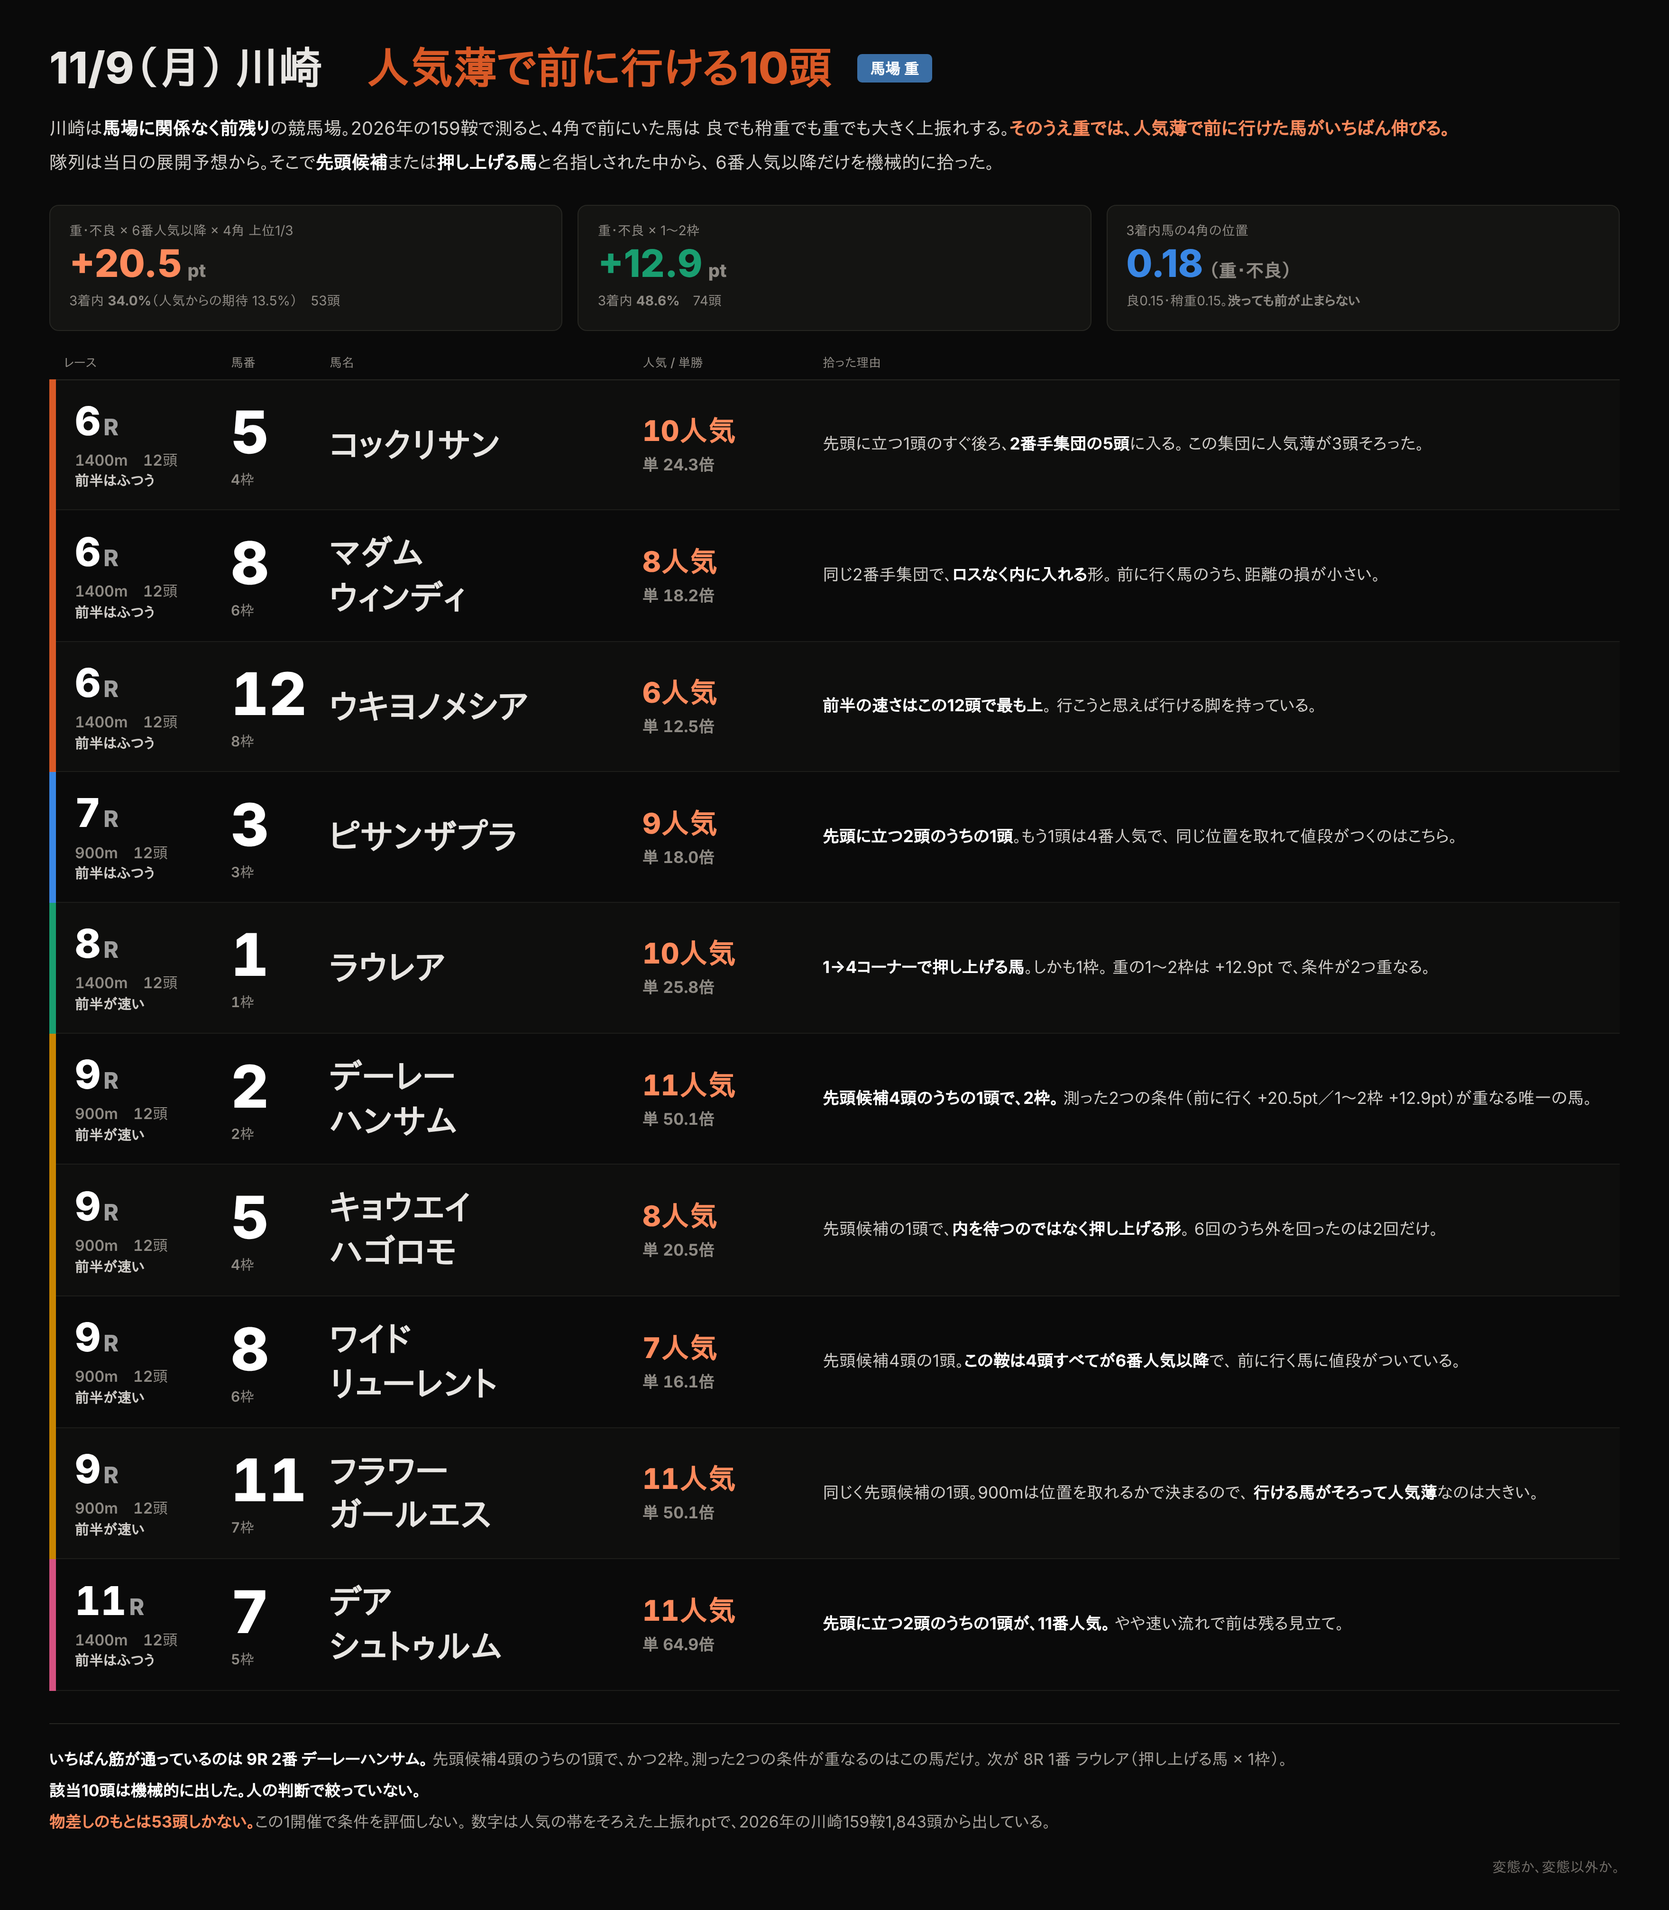
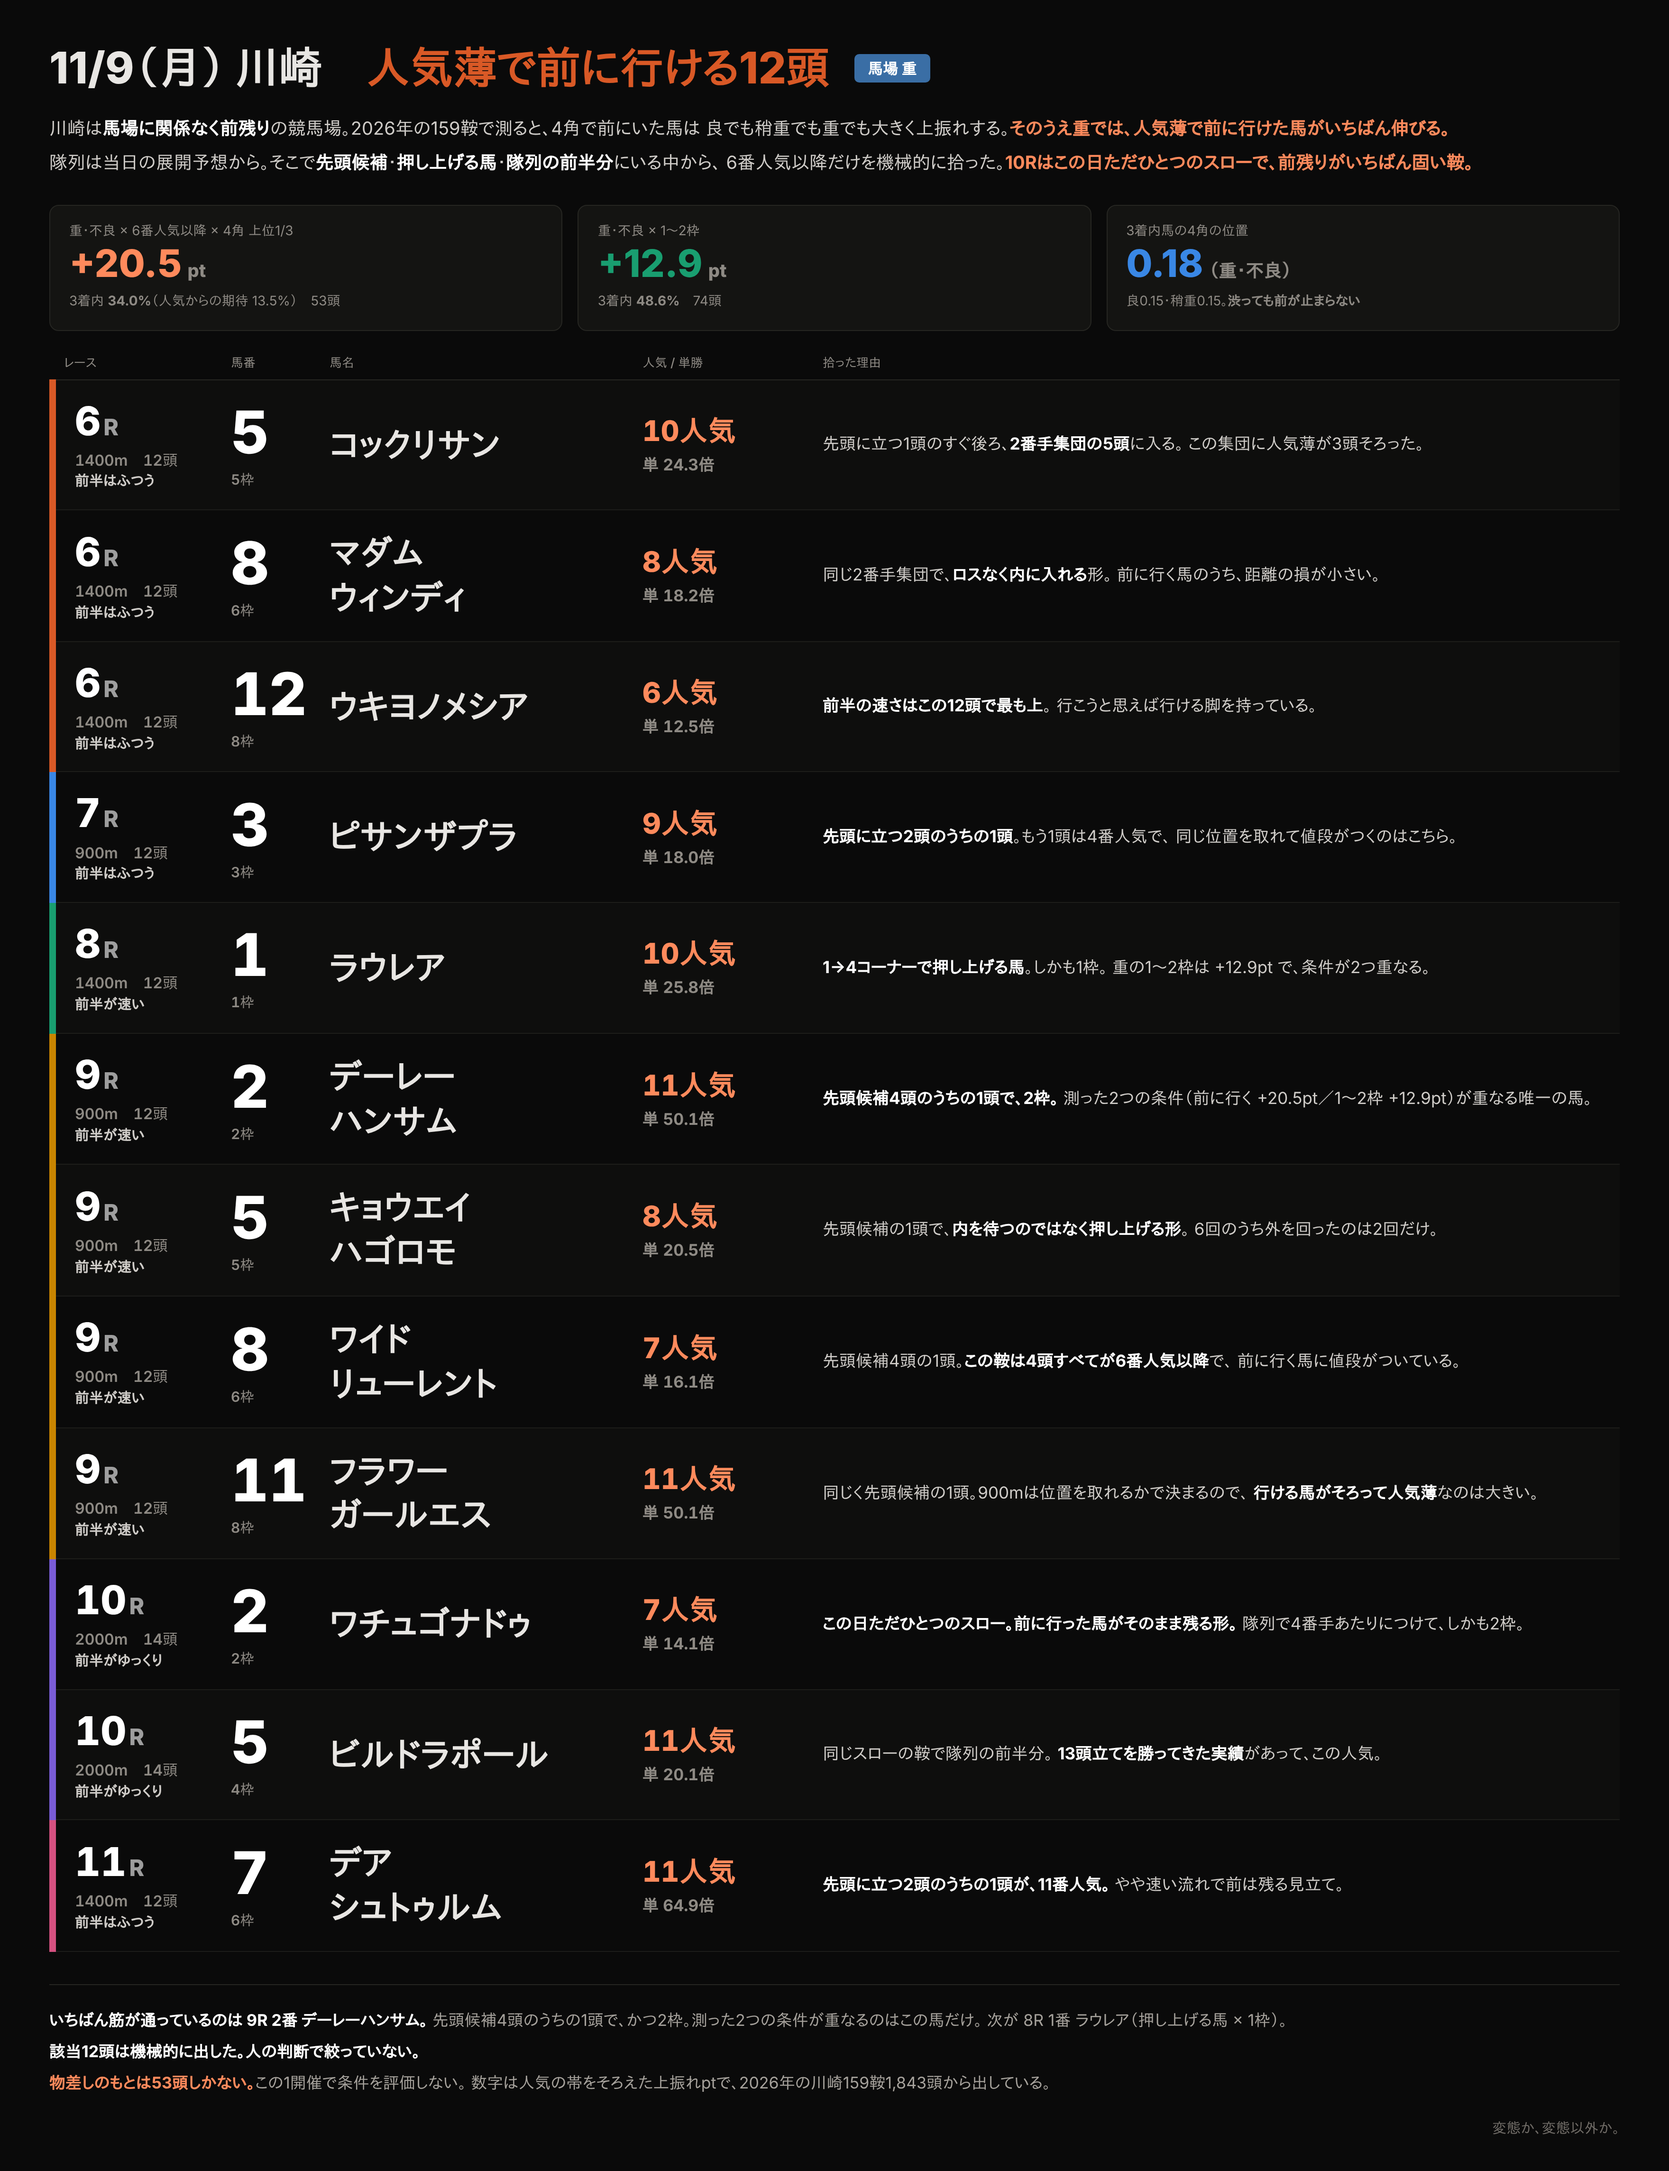
11/9 川崎の推奨を訂正：10Rを追加し、枠の誤りを直す
10Rを『先頭に立つ馬がいない』という理由で外していたが、条件は
『先頭に立つ馬』ではなく『4角で上位1/3にいる馬』。先頭が決まらなく
ても前にいる馬は隊列から特定できる。しかも10Rはこの日ただひとつの
スローで、前残りがいちばん固い鞍だった。

馬番から枠を出す式が誤っていた（余りの配り方）。出馬表の枠と照合
すると94頭中54頭しか合っていなかった。正しい式では87頭一致。
カードの4頭を訂正。1枠ラウレアと2枠デーレーハンサムは変わらず。

Claude-Session: https://claude.ai/code/session_01RoHscZkr96FNaxQWvUqgEw

diff --git a/notes/live/2026-11-09/kawasaki_pick.html b/notes/live/2026-11-09/kawasaki_pick.html
@@ -46,14 +46,14 @@ footer b{color:#fff} footer .hl{color:#ff8a5c;font-weight:700}
 .sig{text-align:right;color:#6f6b66;font-size:15px;margin-top:20px}
 </style></head><body>
 
-<h1>11/9（月） 川崎　<span class=ac>人気薄で前に行ける10頭</span>
+<h1>11/9（月） 川崎　<span class=ac>人気薄で前に行ける12頭</span>
 <span class=tag>馬場 重</span></h1>
 
 <p class=lead>
 川崎は<b>馬場に関係なく前残り</b>の競馬場。2026年の159鞍で測ると、4角で前にいた馬は
 良でも稍重でも重でも大きく上振れする。<span class=hl>そのうえ重では、人気薄で前に行けた馬がいちばん伸びる。</span><br>
-隊列は当日の展開予想から。そこで<b>先頭候補</b>または<b>押し上げる馬</b>と名指しされた中から、
-6番人気以降だけを機械的に拾った。
+隊列は当日の展開予想から。そこで<b>先頭候補</b>・<b>押し上げる馬</b>・<b>隊列の前半分</b>にいる中から、
+6番人気以降だけを機械的に拾った。<span class=hl>10Rはこの日ただひとつのスローで、前残りがいちばん固い鞍。</span>
 </p>
 
 <div class=tiles>
@@ -75,7 +75,7 @@ footer b{color:#fff} footer .hl{color:#ff8a5c;font-weight:700}
 <tr style="--rc:#d95926">
  <td class=r>6<span class=rr>R</span><span class=dm>1400m　12頭</span>
   <span class=pc>前半はふつう</span></td>
- <td class=u>5<span class=wk>4枠</span></td>
+ <td class=u>5<span class=wk>5枠</span></td>
  <td class=nm>コックリサン</td>
  <td class=od><span class=p>10人気</span><span class=t>単 24.3倍</span></td>
  <td class=why>先頭に立つ1頭のすぐ後ろ、<b>2番手集団の5頭</b>に入る。
@@ -129,7 +129,7 @@ footer b{color:#fff} footer .hl{color:#ff8a5c;font-weight:700}
 <tr style="--rc:#c98500">
  <td class=r>9<span class=rr>R</span><span class=dm>900m　12頭</span>
   <span class=pc>前半が速い</span></td>
- <td class=u>5<span class=wk>4枠</span></td>
+ <td class=u>5<span class=wk>5枠</span></td>
  <td class=nm>キョウエイ<br>ハゴロモ</td>
  <td class=od><span class=p>8人気</span><span class=t>単 20.5倍</span></td>
  <td class=why>先頭候補の1頭で、<b>内を待つのではなく押し上げる形</b>。
@@ -147,16 +147,34 @@ footer b{color:#fff} footer .hl{color:#ff8a5c;font-weight:700}
 <tr style="--rc:#c98500">
  <td class=r>9<span class=rr>R</span><span class=dm>900m　12頭</span>
   <span class=pc>前半が速い</span></td>
- <td class=u>11<span class=wk>7枠</span></td>
+ <td class=u>11<span class=wk>8枠</span></td>
  <td class=nm>フラワー<br>ガールエス</td>
  <td class=od><span class=p>11人気</span><span class=t>単 50.1倍</span></td>
  <td class=why>同じく先頭候補の1頭。900mは位置を取れるかで決まるので、
   <b>行ける馬がそろって人気薄</b>なのは大きい。</td></tr>
 
+<tr style="--rc:#7a5cd6">
+ <td class=r>10<span class=rr>R</span><span class=dm>2000m　14頭</span>
+  <span class=pc>前半がゆっくり</span></td>
+ <td class=u>2<span class=wk>2枠</span></td>
+ <td class=nm>ワチュゴナドゥ</td>
+ <td class=od><span class=p>7人気</span><span class=t>単 14.1倍</span></td>
+ <td class=why><b>この日ただひとつのスロー。前に行った馬がそのまま残る形。</b>
+  隊列で4番手あたりにつけて、しかも2枠。</td></tr>
+
+<tr style="--rc:#7a5cd6">
+ <td class=r>10<span class=rr>R</span><span class=dm>2000m　14頭</span>
+  <span class=pc>前半がゆっくり</span></td>
+ <td class=u>5<span class=wk>4枠</span></td>
+ <td class=nm>ビルドラポール</td>
+ <td class=od><span class=p>11人気</span><span class=t>単 20.1倍</span></td>
+ <td class=why>同じスローの鞍で隊列の前半分。
+  <b>13頭立てを勝ってきた実績</b>があって、この人気。</td></tr>
+
 <tr style="--rc:#d55181">
  <td class=r>11<span class=rr>R</span><span class=dm>1400m　12頭</span>
   <span class=pc>前半はふつう</span></td>
- <td class=u>7<span class=wk>5枠</span></td>
+ <td class=u>7<span class=wk>6枠</span></td>
  <td class=nm>デア<br>シュトゥルム</td>
  <td class=od><span class=p>11人気</span><span class=t>単 64.9倍</span></td>
  <td class=why><b>先頭に立つ2頭のうちの1頭が、11番人気。</b>
@@ -168,7 +186,7 @@ footer b{color:#fff} footer .hl{color:#ff8a5c;font-weight:700}
 <b>いちばん筋が通っているのは 9R 2番 デーレーハンサム。</b>
 先頭候補4頭のうちの1頭で、かつ2枠。測った2つの条件が重なるのはこの馬だけ。
 次が 8R 1番 ラウレア（押し上げる馬 × 1枠）。<br>
-<b>該当10頭は機械的に出した。人の判断で絞っていない。</b><br>
+<b>該当12頭は機械的に出した。人の判断で絞っていない。</b><br>
 <span class=hl>物差しのもとは53頭しかない。</span>この1開催で条件を評価しない。
 数字は人気の帯をそろえた上振れptで、2026年の川崎159鞍1,843頭から出している。
 </footer>
